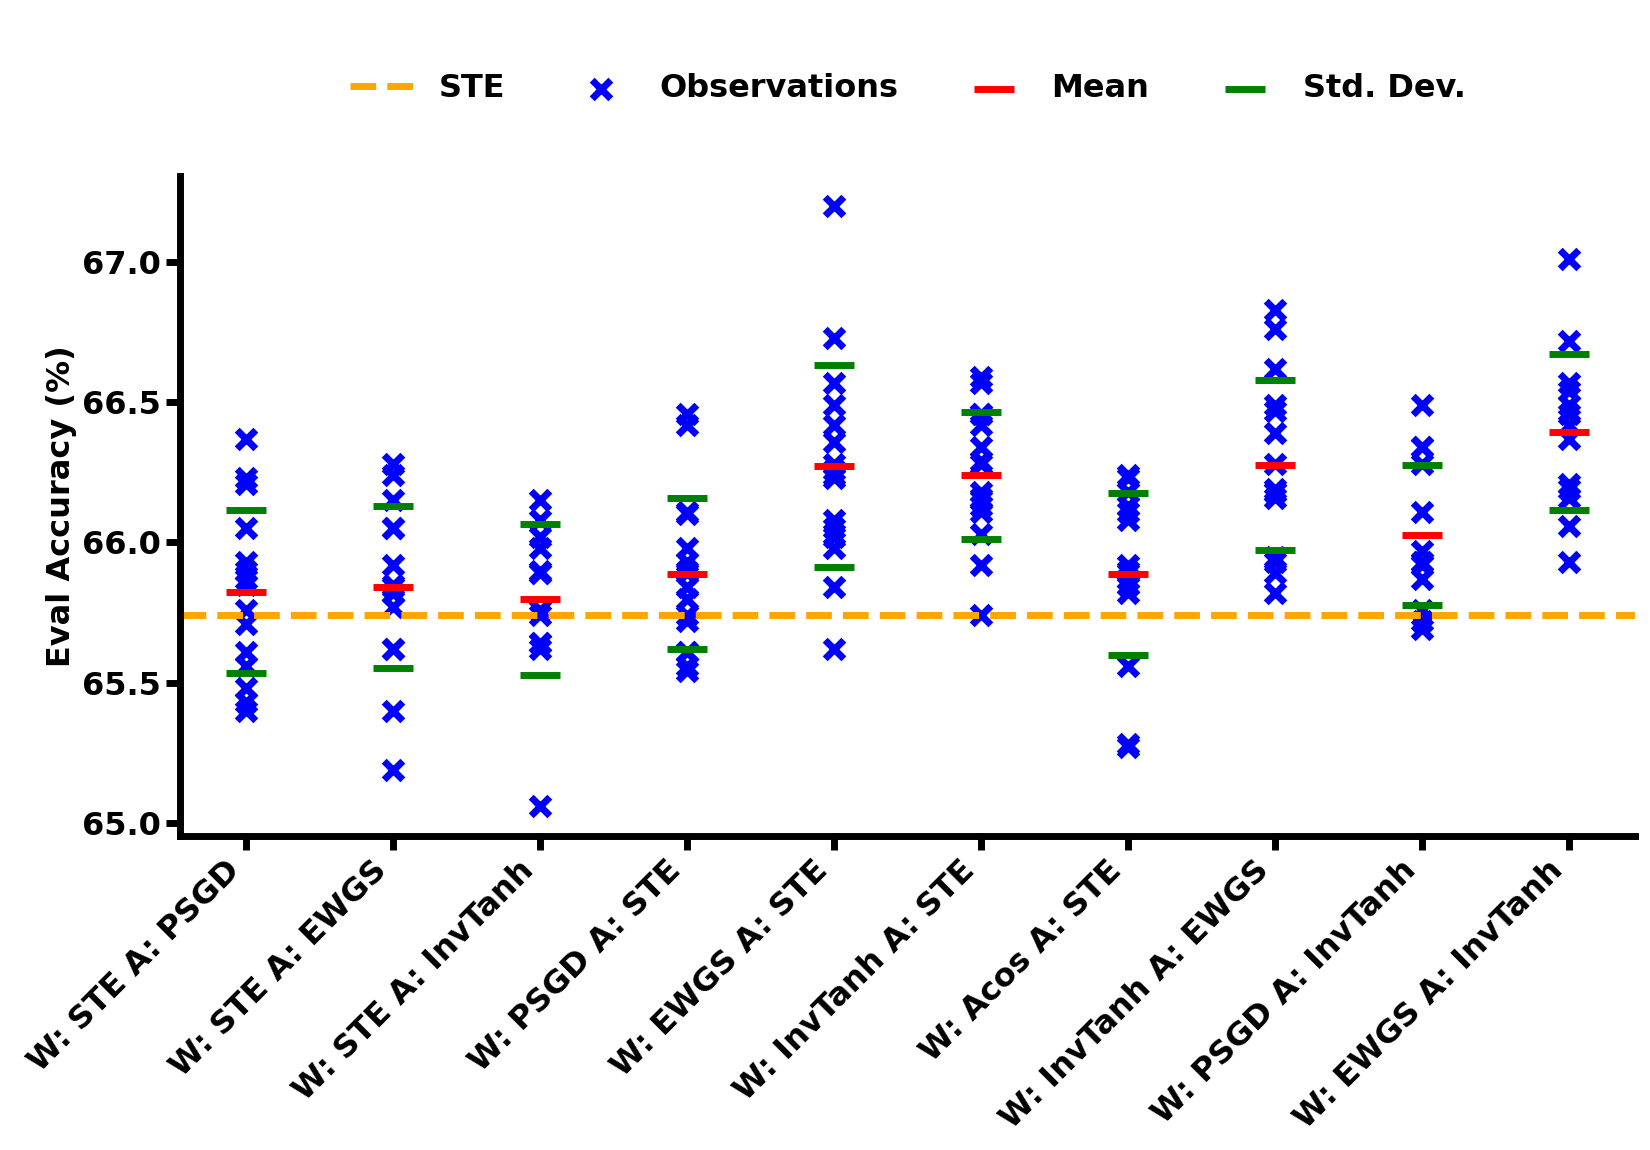
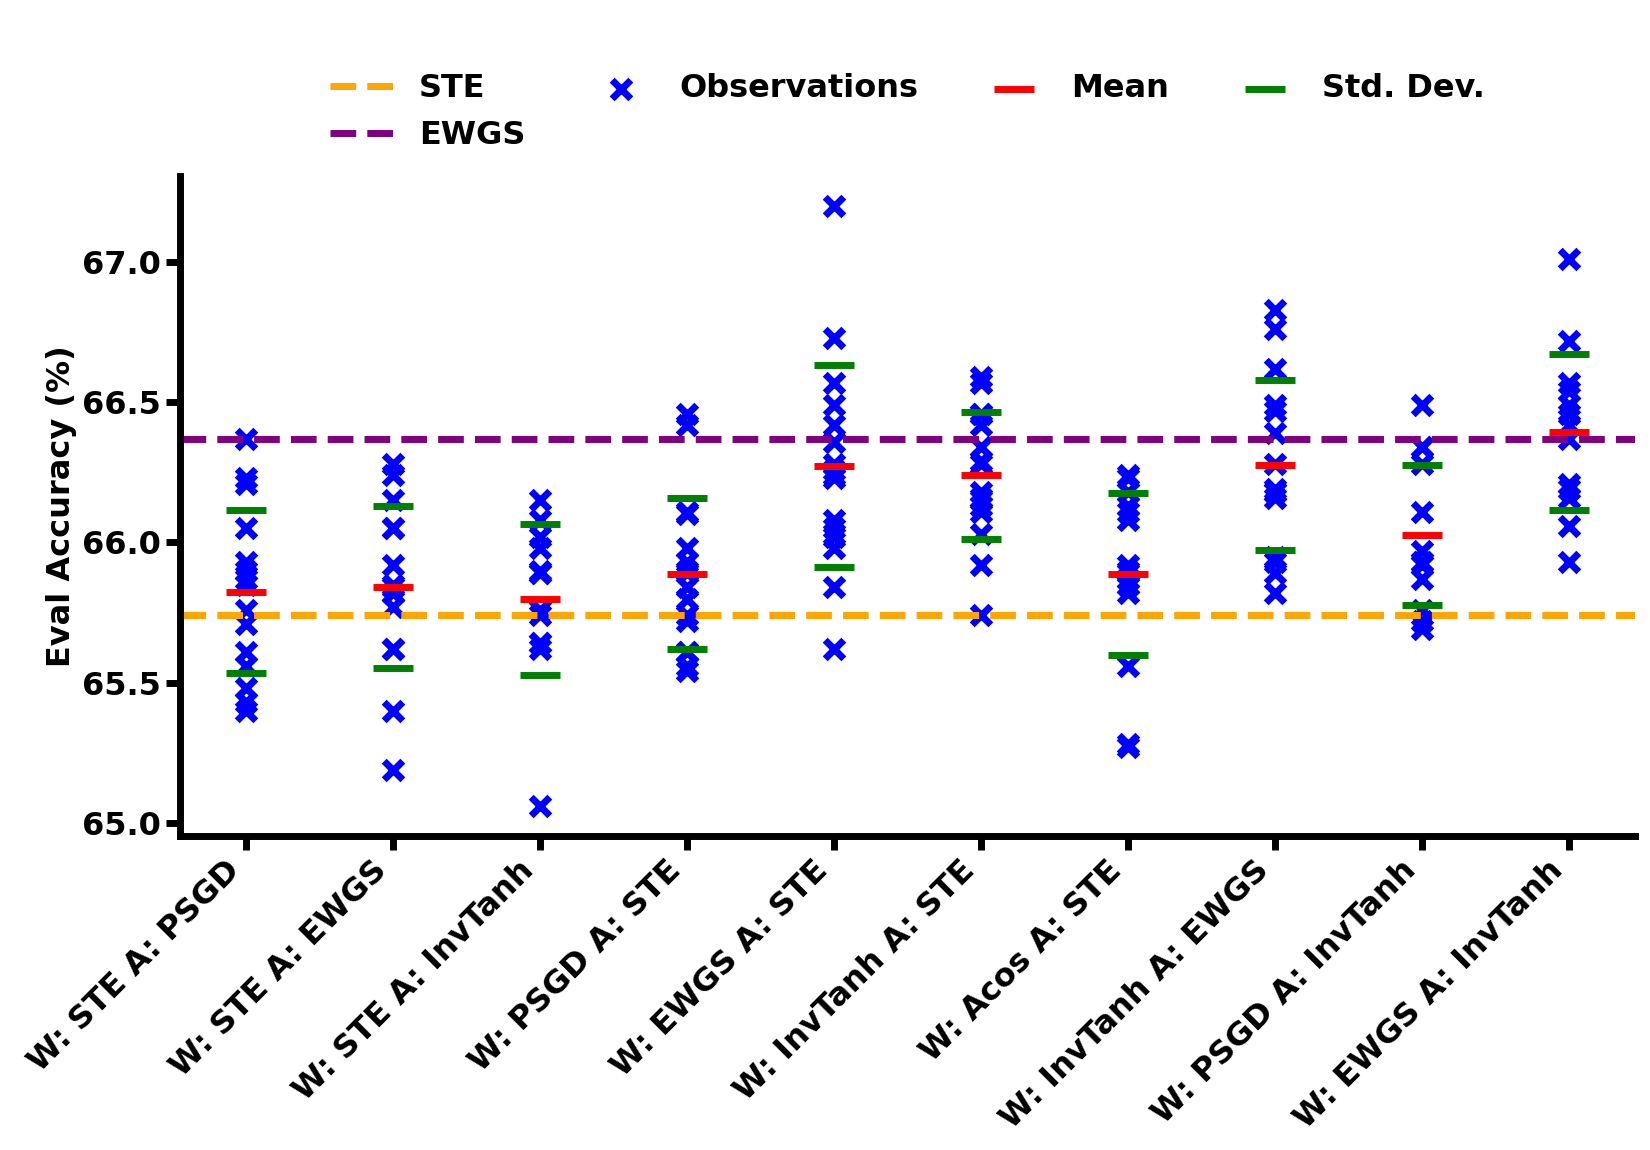
normal - figure

diff --git a/examples/efficientnet/visualization.py b/examples/efficientnet/visualization.py
@@ -615,6 +615,8 @@ def plot_surrogate_mix():
 
   ax.axhline(y=65.741000, color='orange', linestyle='--', label = 'STE', linewidth=5)
 
+  ax.axhline(y=66.37000, color='purple', linestyle='--', label = 'EWGS', linewidth=5)
+
   
   plt.xticks(base_x / 4, names, rotation=45, horizontalalignment='right')
 
